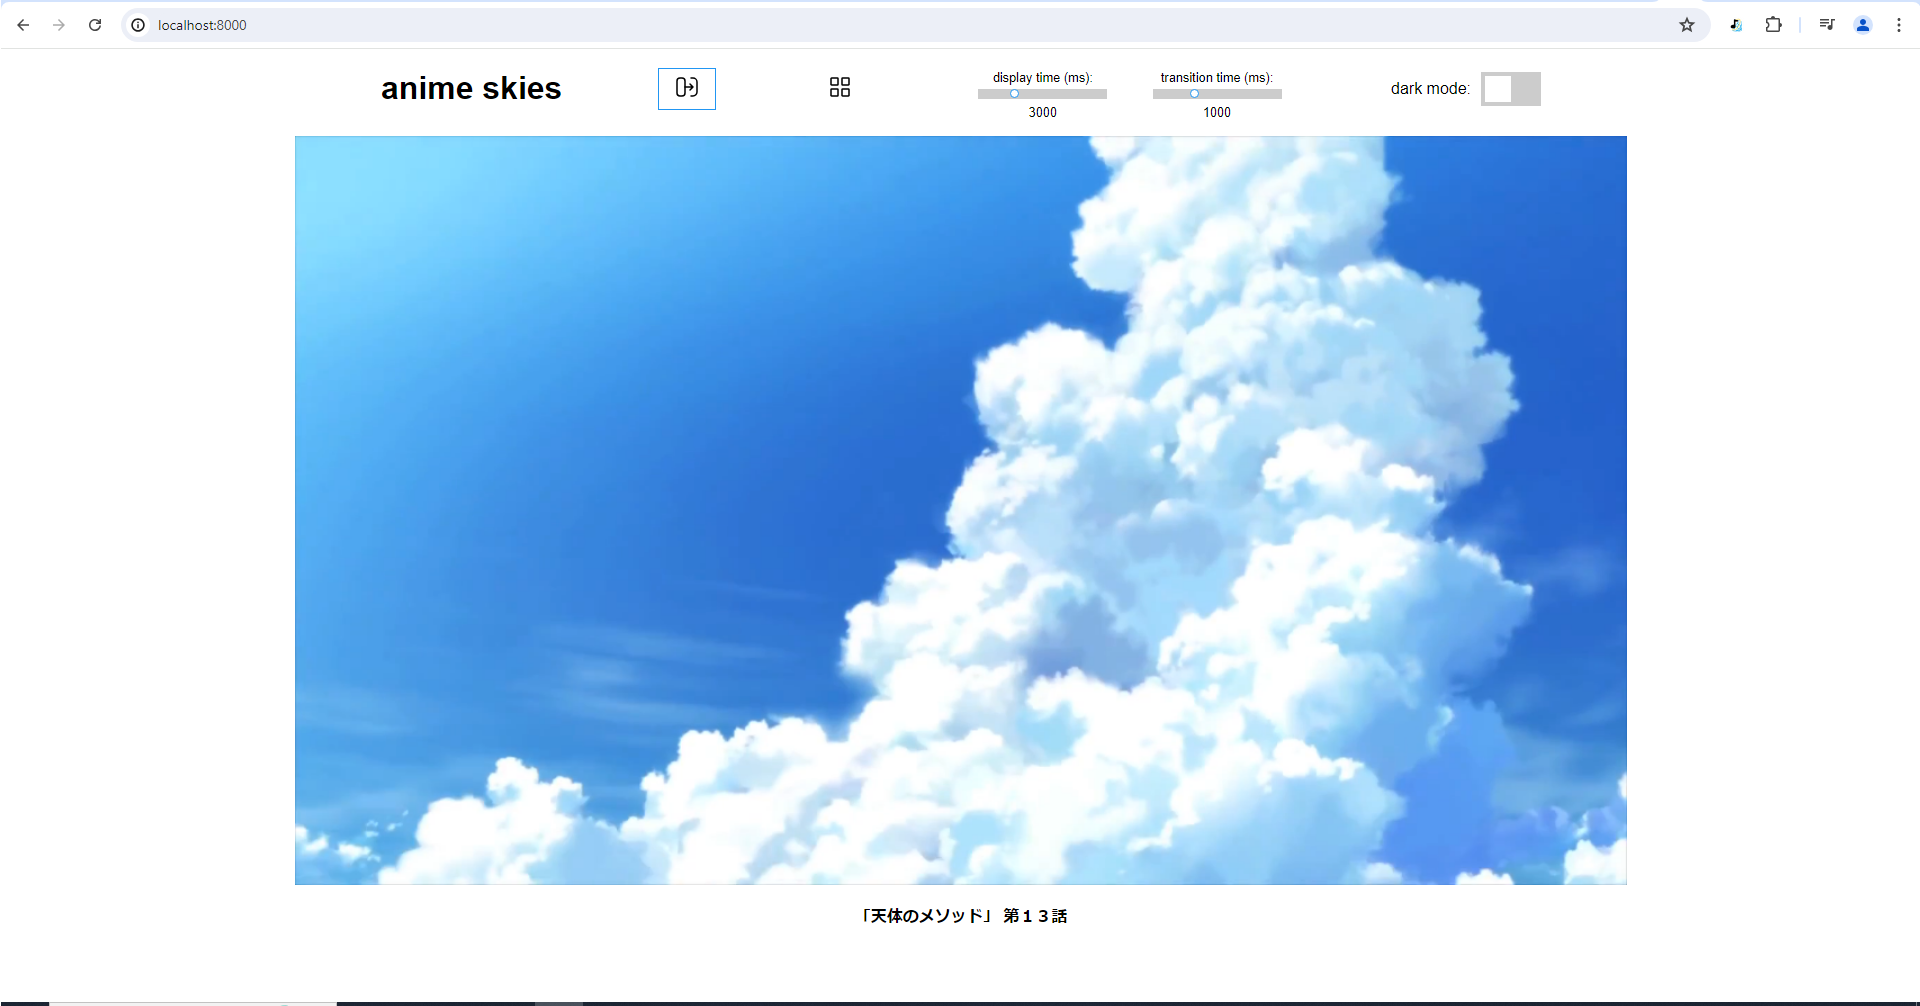
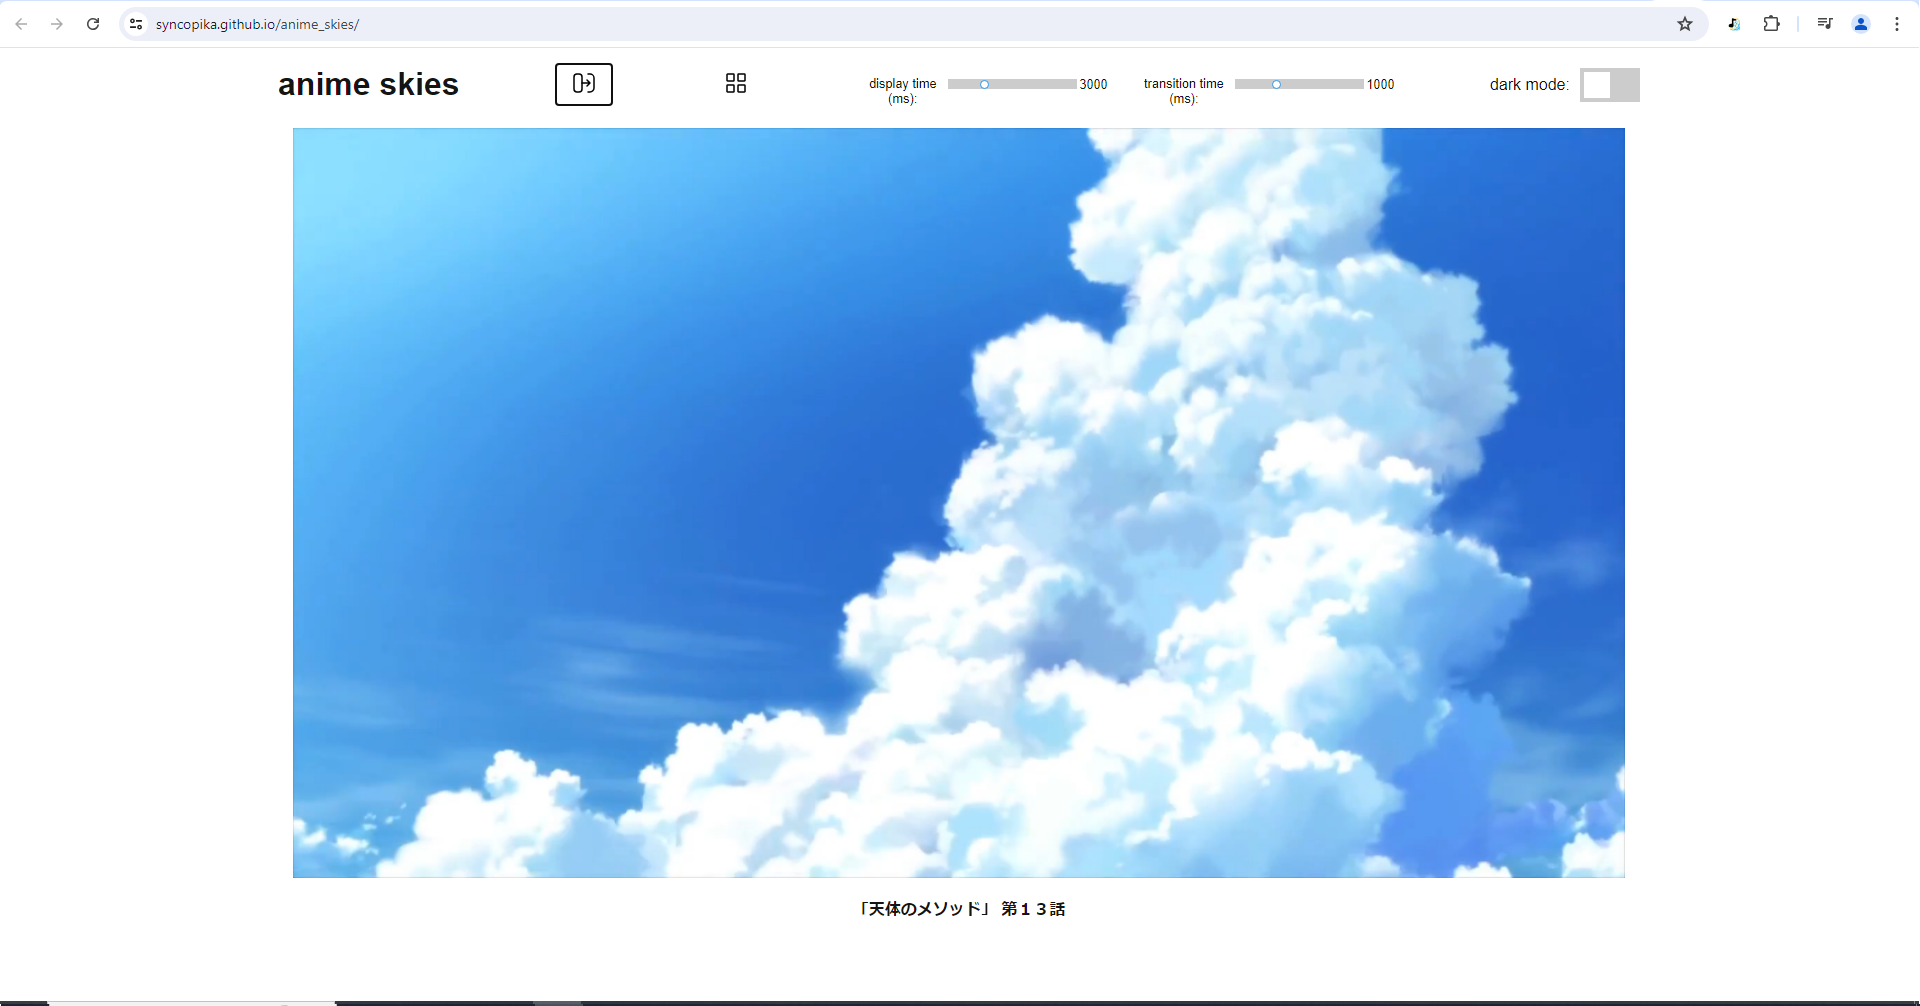
fixes (#1)
* fix modal placement, fix next/prev preview sky div size, fix pointer events not working on canvas on mobile via touch-action

* update screenshots

diff --git a/index.html b/index.html
@@ -38,6 +38,11 @@
         border: 1px solid #ccc;
         transition: 1s;
       }
+
+      .opt {
+        display: flex;
+        align-items: center;
+      }
       
       .opt p {
         margin-bottom: 0;
@@ -49,6 +54,7 @@
         z-index: -1;
         background-size: cover;
         border: 1px solid #ccc;
+        top: 10vh;
       }
       
       .grid-cell {
@@ -68,6 +74,7 @@
         margin: 0 auto;
         width: 70%;
         height: 50%;
+        touch-action: none; /* for handling pointer events properly */
       }
       
       #source {
@@ -425,27 +432,28 @@
       function setupPreviews(){
         const canvas = document.getElementById('display');
         
+        const computedStyle = getComputedStyle(canvas);
+        const displayWidth = parseInt(computedStyle.getPropertyValue('width')) * 0.3;
+        const displayHeight = parseInt(computedStyle.getPropertyValue('height')) * 0.3;
+        
         // show next/prev sky previews
         const lastIndex = getLastIndex();
-        const top = canvas.getBoundingClientRect().top;
-        const width = `${canvas.width}px`;
-        const height = `${canvas.height}px`;
+        const width = `${displayWidth}px`;
+        const height = `${displayHeight}px`;
         
         const lastPreview = document.createElement('div');
         lastPreview.style.backgroundImage = `url("${skies[lastIndex].image.src}")`;
-        lastPreview.style.top = '10vh';
-        lastPreview.style.left = '-1vw';
-        lastPreview.style.width = '30vh';
-        lastPreview.style.height = '30vh';
+        lastPreview.style.left = '-5vw';
+        lastPreview.style.width = width;
+        lastPreview.style.height = height;
         lastPreview.style.transform = 'perspective(50rem) rotateY(-45deg)';
         lastPreview.classList.add('preview');
         
         const nextPreview = document.createElement('div');
         nextPreview.style.backgroundImage = `url("${skies[(skyIndex + 1) % skies.length].image.src}")`;
-        nextPreview.style.top = '10vh';
-        nextPreview.style.right = '-1vw';
-        nextPreview.style.width = '30vh';
-        nextPreview.style.height = '30vh';
+        nextPreview.style.right = '-5vw';
+        nextPreview.style.width = width;
+        nextPreview.style.height = height;
         nextPreview.style.transform = 'perspective(50rem) rotateY(45deg)';
         nextPreview.classList.add('preview');
         

diff --git a/modal.js b/modal.js
@@ -2,7 +2,7 @@ class Modal {
   constructor(){
     this.modalStyle = {
       position: "fixed",
-      top: "30%",
+      top: "50%",
       left: "50%",
       transform: "translate(-50%, -50%)",
       zIndex: "1010",
@@ -23,7 +23,7 @@ class Modal {
       left: "0",
       width: "100%",
       height: "100%",
-      backgroundColor: "#aaa",
+      backgroundColor: "#090909",
       opacity: "0.2",
     };
   }
